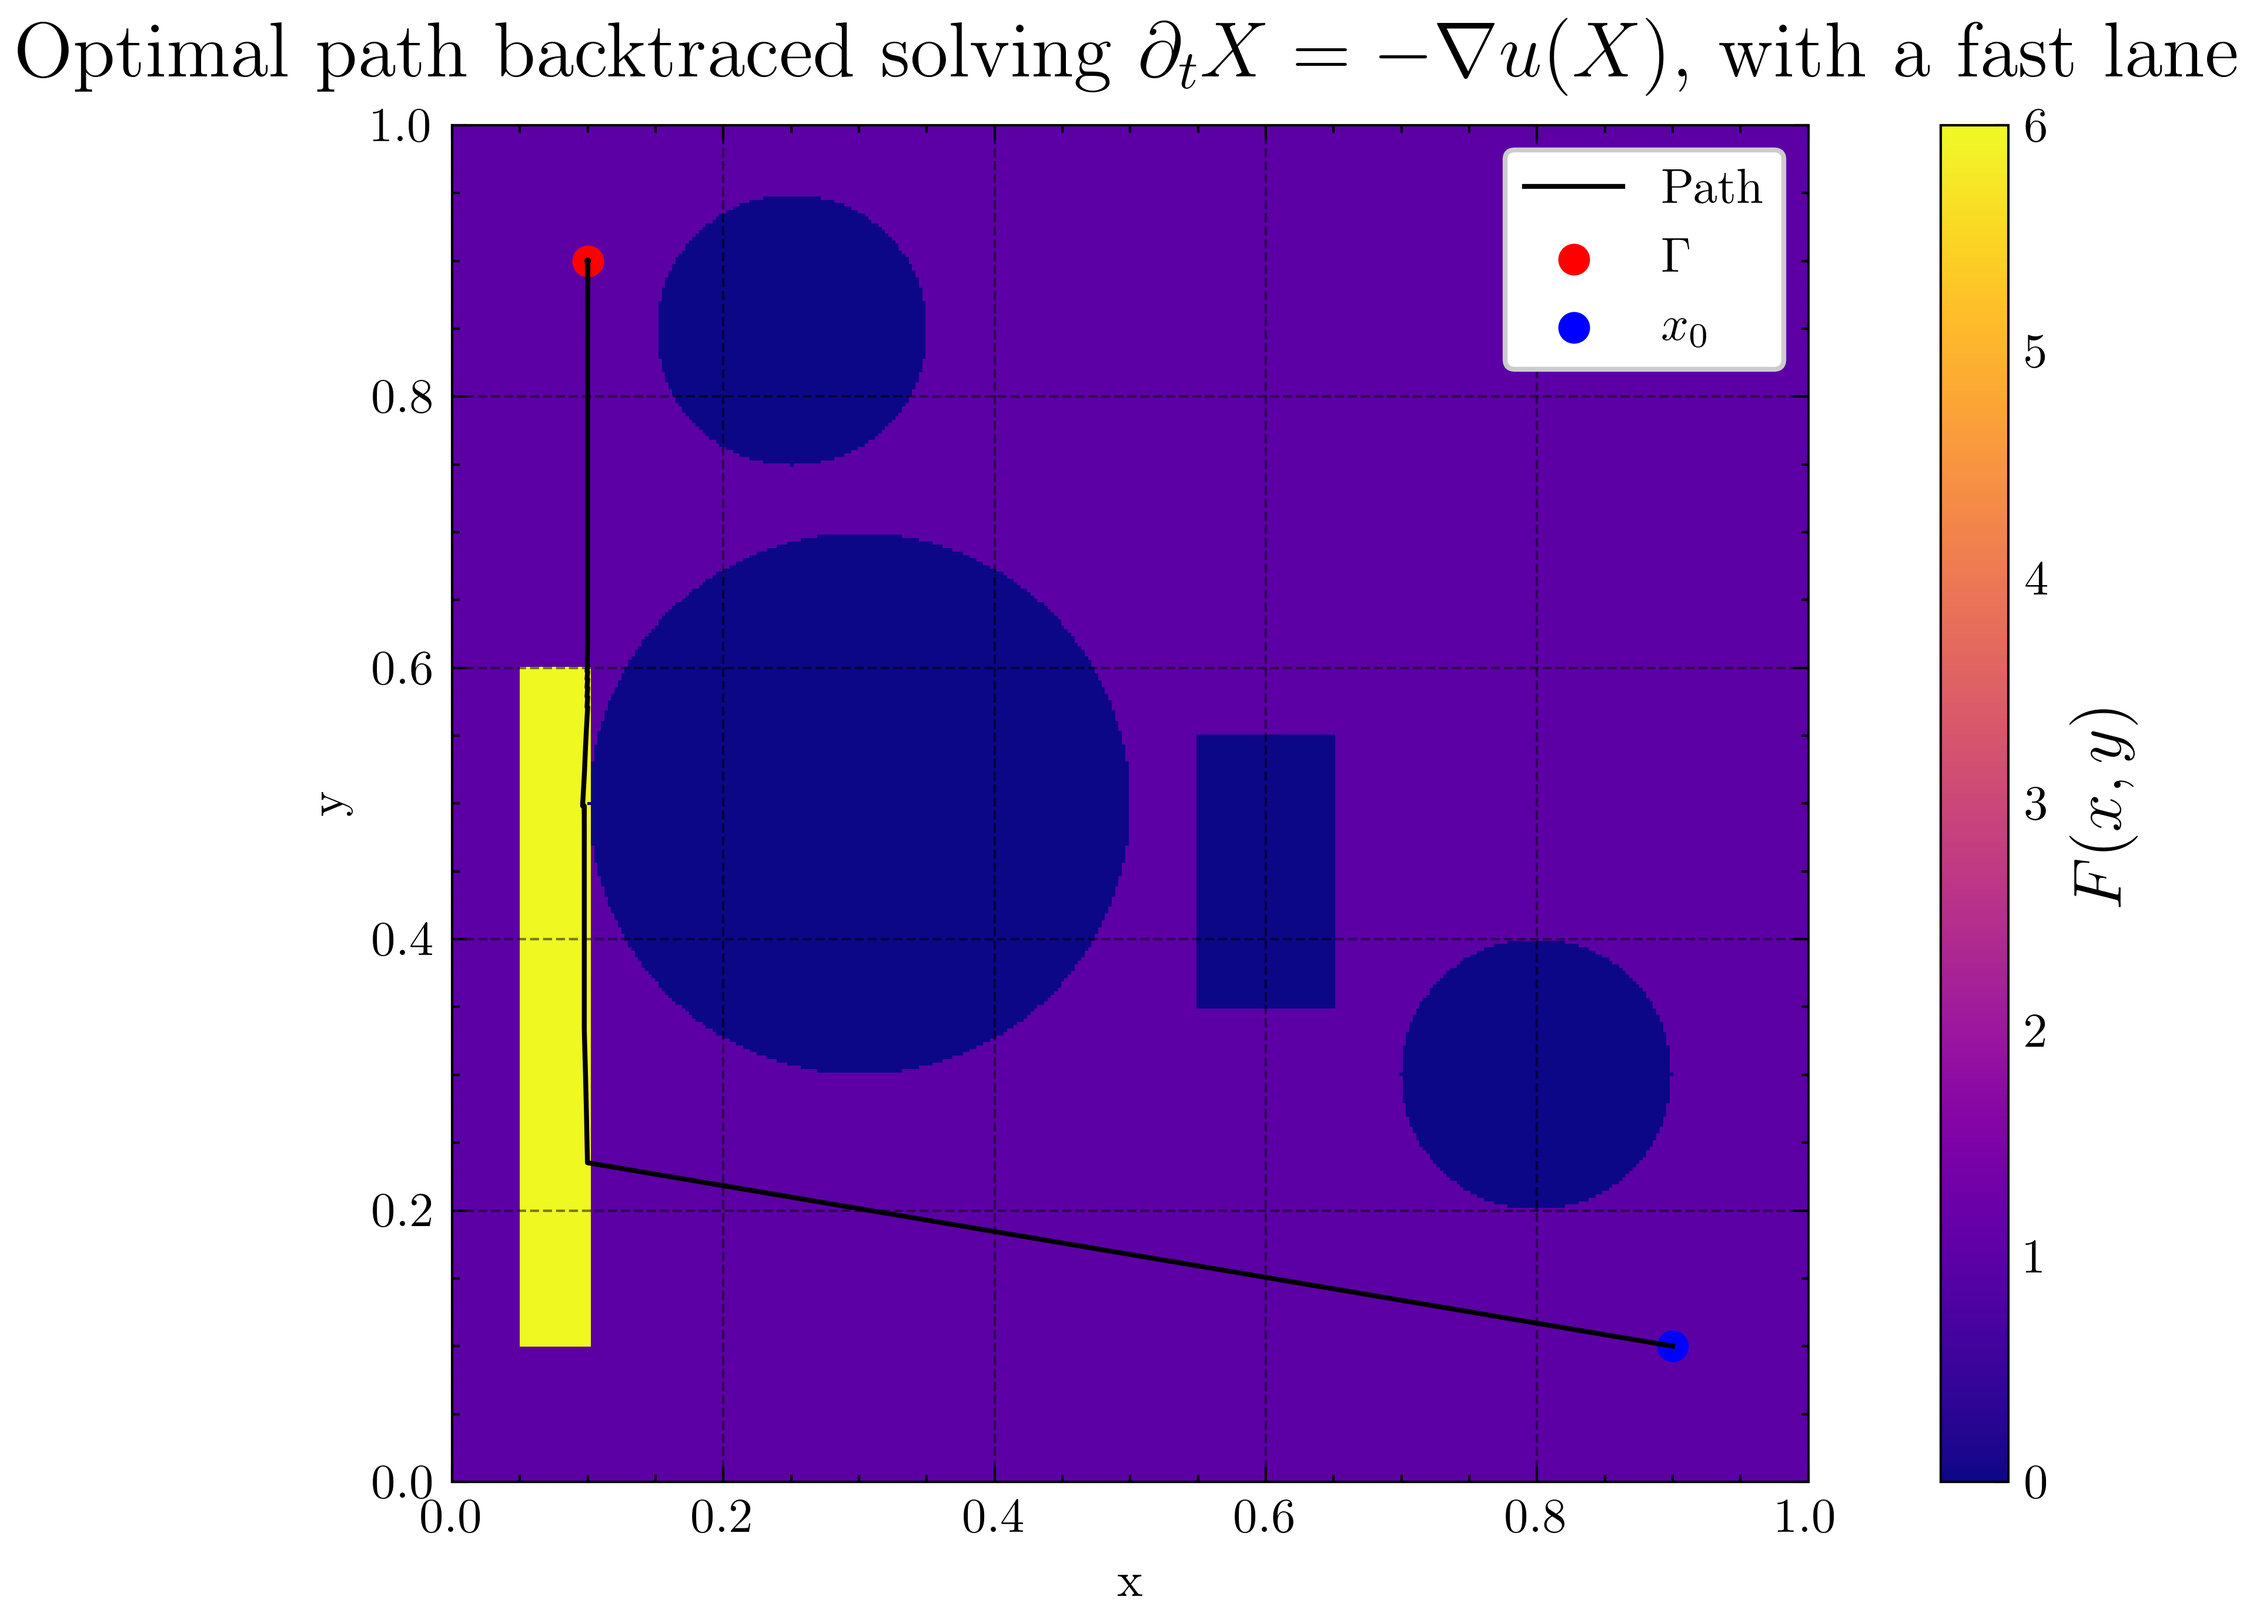
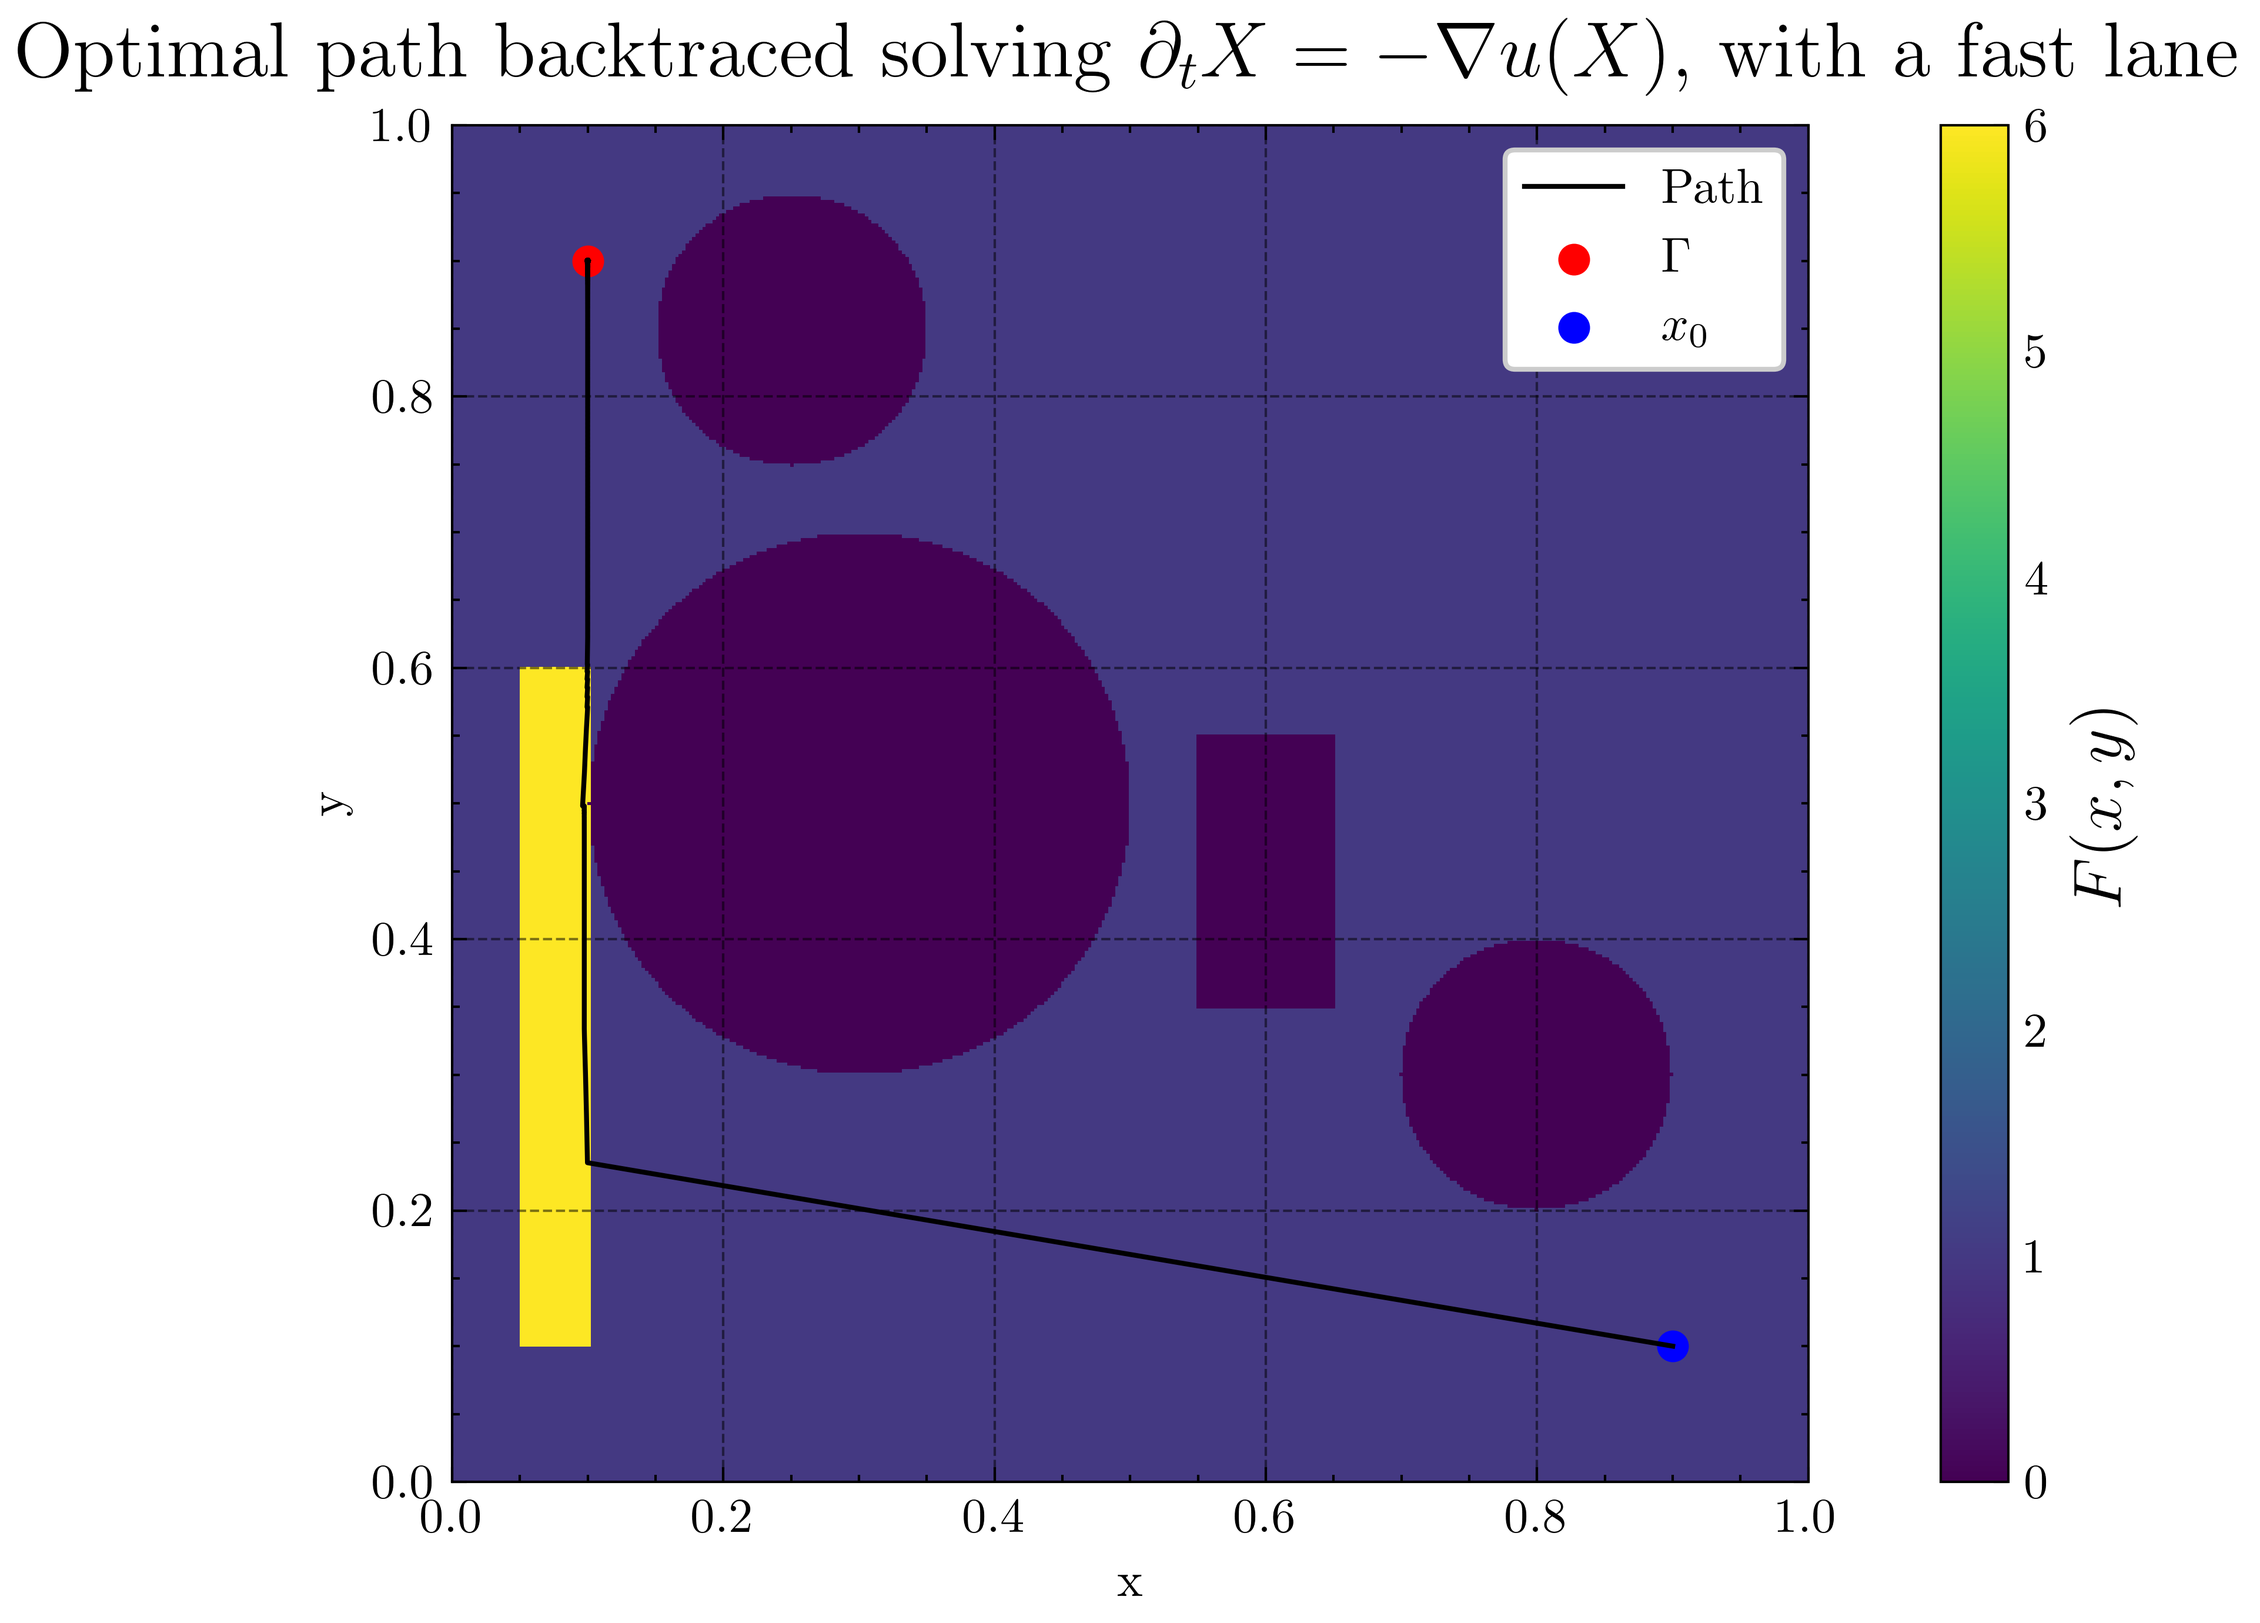
better plots for mountains

diff --git a/backtracing/MountainPath/mountains.py b/backtracing/MountainPath/mountains.py
@@ -34,9 +34,14 @@ target = np.array([dom.a + 40*dom.h, dom.d - 40*dom.h])
 print("Starting pint in (x,y) : ",x0)
 print("Target in (x,y) : ", target)
 
+xf = np.linspace(0,1,400)
+yf = np.linspace(0,1,400)
+X,Y = np.meshgrid(xf,yf)
+Z = np.vectorize(F)(X,Y)
+
 plt.style.use(['science', 'grid'])
 plt.figure(figsize=(7.8, 4.8))
-plt.imshow(u, origin = "upper", extent=(dom.a, dom.b, dom.c, dom.d), cmap='viridis')
+plt.imshow(Z, origin = "lower", extent=(dom.a, dom.b, dom.c, dom.d), cmap='viridis')
 plt.colorbar()
 plt.plot(path[:,0], path[:,1], color='black', linewidth=1, label='Path')
 plt.scatter(*target, color='red', s=30, label=r'$\Gamma$')

diff --git a/backtracing/MountainPath/mountain_fast_lane.py b/backtracing/MountainPath/mountain_fast_lane.py
@@ -45,7 +45,7 @@ print("Target in (x,y) : ", target)
 plt.style.use(['science', 'grid'])
 plt.figure(figsize=(7.8, 4.8))
 # if displaying the function F, origin must be 'lower'. If showing u : origin = 'upper'
-plt.imshow(Z, origin = "lower", extent=(dom.a, dom.b, dom.c, dom.d), cmap='plasma')
+plt.imshow(Z, origin = "lower", extent=(dom.a, dom.b, dom.c, dom.d), cmap='viridis')
 cbar = plt.colorbar()
 cbar.set_label(r"$F(x, y)$", fontsize=14)
 plt.plot(path[:,0], path[:,1], color='black', linewidth=1, label='Path')
